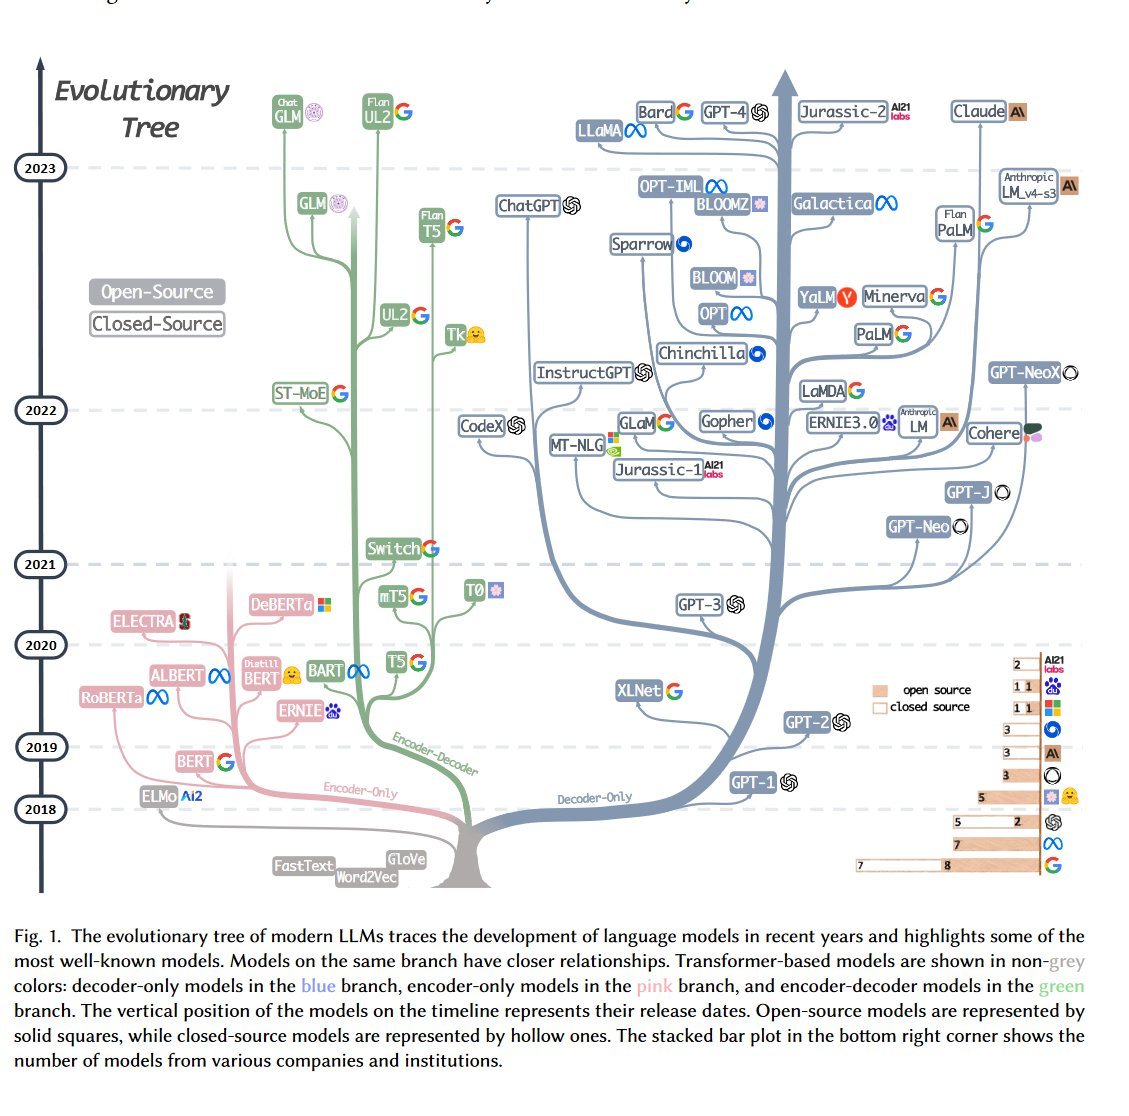
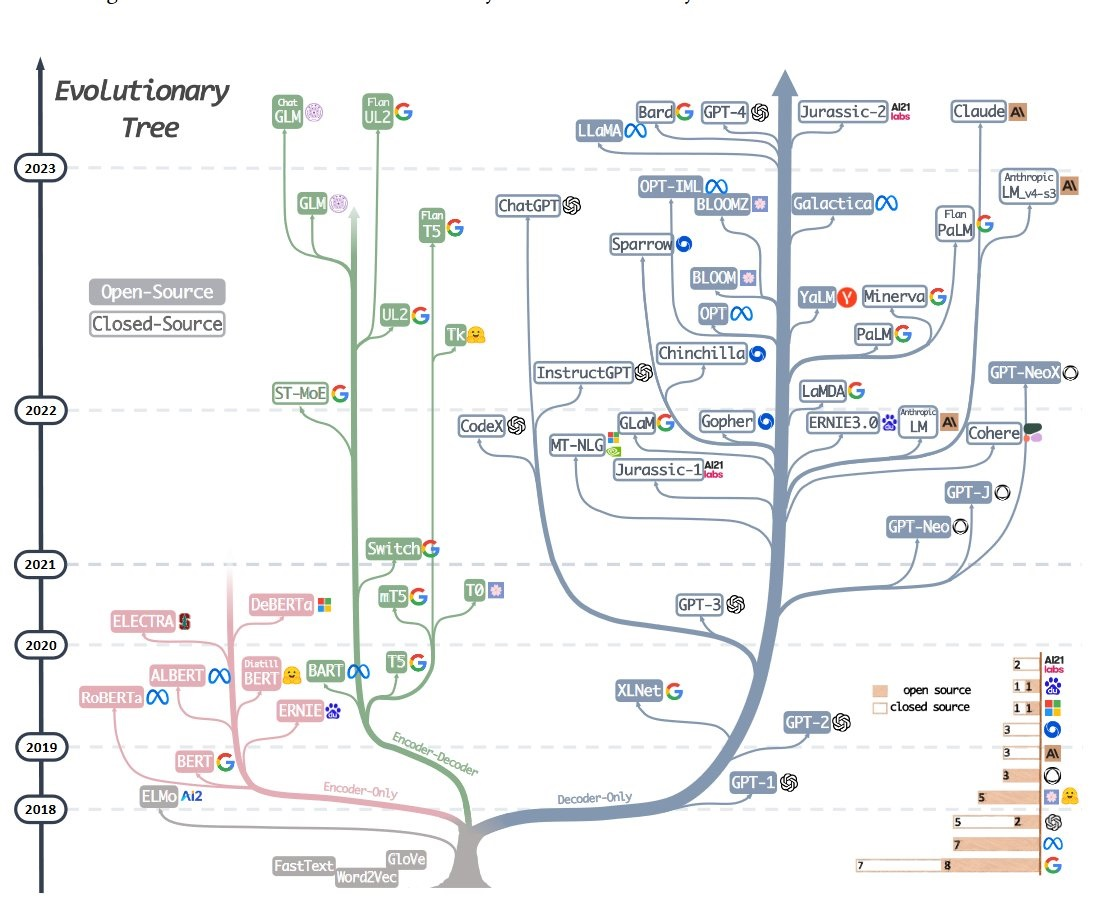
streamlit+image

diff --git a/Code/streamlit.py b/Code/streamlit.py
@@ -103,15 +103,18 @@ with tab1:
 # ----------- NLP Models -----------------------
 
 with tab2:
-    st.header("NLP Model Architecture")
-    
-    st.subheader("Original Attempts")
-    
-    st.markdown("We explored various deep learning approaches in order to achieve our goal of translating math word problems into a numeric output. The first approach attempted to use a GPT-3 type transformer due to its flexibility in various NLP tasks like language translation, summarization, and generation. Though the model showed extremely low loss after training, it ultimately was unable to translate math word problems into numeric equations thus, leaving the team to explore other sequence-to-sequence focused techniques.")
-    st.markdown("GPT Model: The GPT-3 type transformer follows the transformer architecture, known for its attention mechanisms. It excels in capturing contextual information across sequences. Cross-entropy loss was employed, commonly used in language modeling tasks, with the expectation that it would guide the model to generate accurate numeric equations for math word problems.Despite achieving low training loss, the model struggled to make accurate predictions, leading the team to reevaluate the chosen approach.")
-    
-    st.markdown("BERT Model: BERT, or Bidirectional Encoder Representations from Transformers, is a transformer-based model designed for bidirectional context understanding. It is particularly effective in capturing dependencies in both directions. : Similar to GPT-3, cross-entropy loss was applied, aiming to guide the model in understanding the sequential information in math word problems. BERT, too, faced difficulties in accurately translating math word problems into numeric equations, prompting a reassessment of the chosen architecture.")
-    
+    col1, col2 = st.columns([1,2], gap='medium')
+    with col1:
+        st.header("NLP Model Architecture")
+
+        st.subheader("Original Attempts")
+
+        st.markdown("We explored various deep learning approaches in order to achieve our goal of translating math word problems into a numeric output. The first approach attempted to use a GPT-3 type transformer due to its flexibility in various NLP tasks like language translation, summarization, and generation. Though the model showed extremely low loss after training, it ultimately was unable to translate math word problems into numeric equations thus, leaving the team to explore other sequence-to-sequence focused techniques.")
+        st.markdown("GPT Model: The GPT-3 type transformer follows the transformer architecture, known for its attention mechanisms. It excels in capturing contextual information across sequences. Cross-entropy loss was employed, commonly used in language modeling tasks, with the expectation that it would guide the model to generate accurate numeric equations for math word problems.Despite achieving low training loss, the model struggled to make accurate predictions, leading the team to reevaluate the chosen approach.")
+
+        st.markdown("BERT Model: BERT, or Bidirectional Encoder Representations from Transformers, is a transformer-based model designed for bidirectional context understanding. It is particularly effective in capturing dependencies in both directions. : Similar to GPT-3, cross-entropy loss was applied, aiming to guide the model in understanding the sequential information in math word problems. BERT, too, faced difficulties in accurately translating math word problems into numeric equations, prompting a reassessment of the chosen architecture.")
+    with col2:
+        st.image("https://raw.githubusercontent.com/darkivist/Final-Project-Group1/107f850785dcacb8309f87029fd991d5b36ba494/Code/Images/GA7hYUhb0AAQHnZ.jpg")
     st.subheader(" Flan T5 Model")
     
     col1, col2 = st.columns(2, gap='medium')
